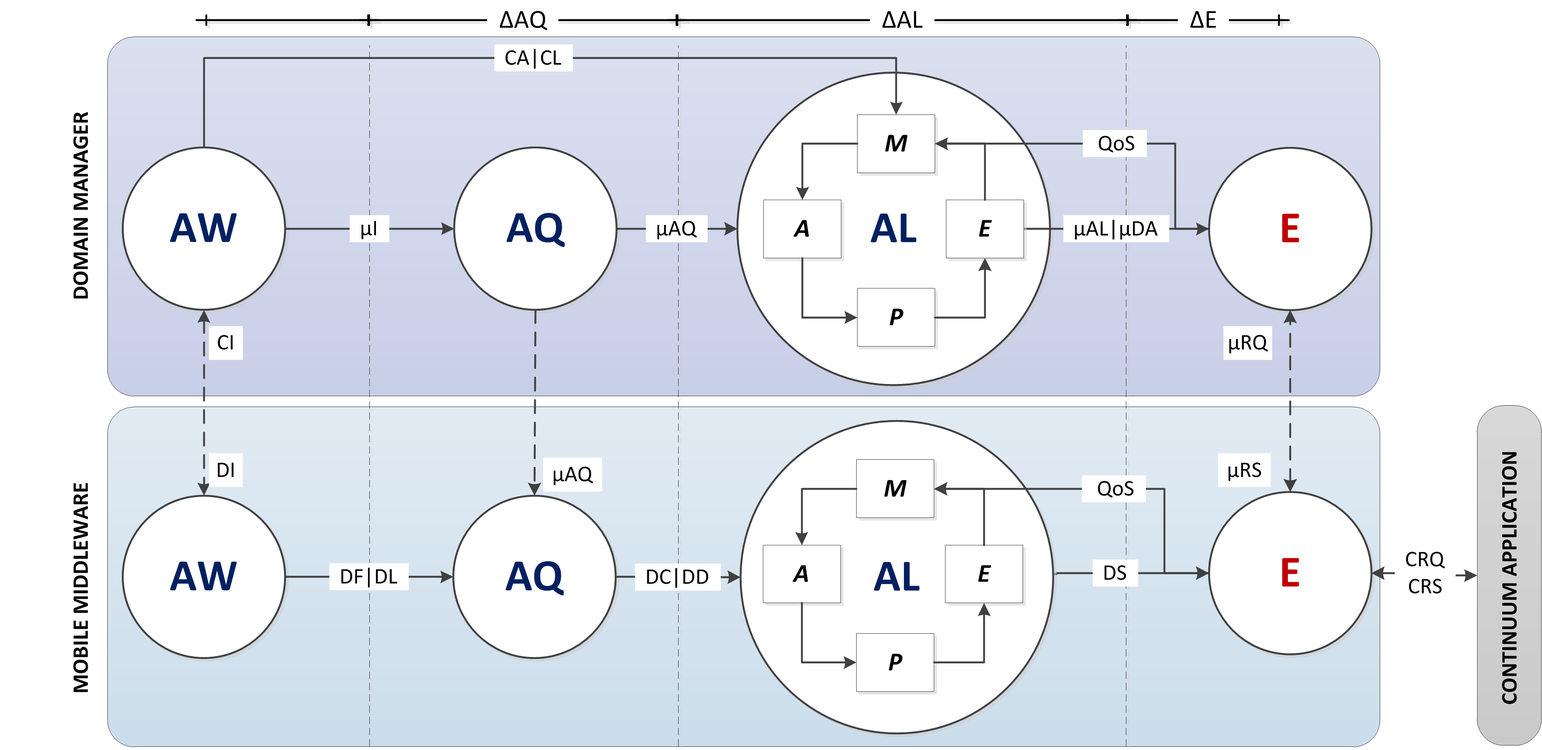
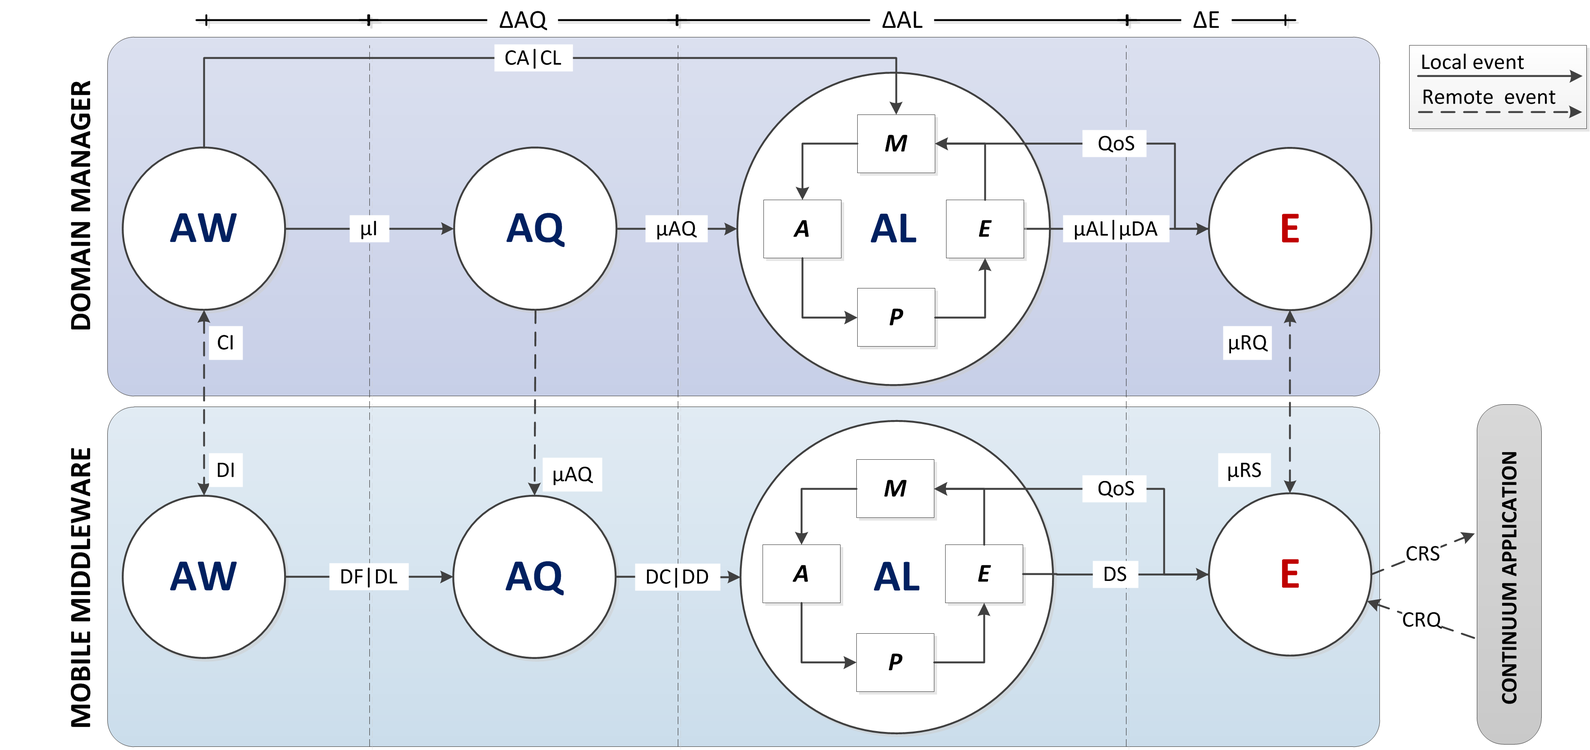
improving evaluation

diff --git a/sections/evaluation.tex b/sections/evaluation.tex
@@ -7,32 +7,30 @@
 
 \section{Experimental Evaluation}\label{sec:evaluation}
 
-We performed different experiments using four domains that materialize the continuum. 
+We performed different experiments involving four distinct domains. 
 %The first experiment evaluates $\mu$-service latency against different workloads. 
-The first experiment studies how latency changes and how the remote domains scale with a varying workload. 
-In this case the mobile domain is obviously omitted. The second one evaluates the domains from a client's perspective, both in terms of latency and battery consumption. The third one evaluates the A3-E with domains that change their availability according to a probability distribution. Finally, the last one evaluates the A3-E's Acquisition and Allocation performance. When possible, we compared A3-E against Enorm, a framework for edge resource management.
+The first experiment studies how latency changes and how the remote domains scale with a varying workload. The second one evaluates all domains from a client's perspective, both in terms of battery consumption and execution time. The third one evaluates A3-E's dynamic selection of domains and targets availability. Finally, the last one evaluates A3-E's Acquisition and Allocation performance. When possible, we compared A3-E against Enorm, a framework for edge resource management.
 %Our goal was to demonstrate that the A3-E model is successful in selecting domains at run time and in improving the overall application availability. 
 
 \subsection{Experiments Setup}
 
 %\subsubsection{Domains}
 
-As shown in Table~\ref{tab:domain-exp-config}, our model was evaluated with four types of domains: mobile, local-edge, and cloud. The client application emulates an Augment Reality one by invoking
+Table~\ref{tab:domain-exp-config} summarizes the four domains used in the evaluation. The Mobile domain was deployed to an Android smartphone hosting the A3-E middleware and a continuum application. The latter emulates an Augment Reality one by invoking
 %is an Image Recognition one, in which users can capture an image and invoke 
-$\mu$-services~\footnote{Implementation available in \url{https://github.com/deib-polimi/A3-E-image-recognition}} responsible for \textit{feature extraction} and \textit{object detection}, which are placed along the continuum. AR is a typical use case for the continuum due to the low latency and high computational power requirements~\cite{beck2014mobile}.
-
-The mobile domain was deployed to an Android smartphone hosting the A3-E middleware. 
+$\mu$-services~\footnote{Implementation available in \url{https://github.com/deib-polimi/A3-E-image-recognition}} responsible for \textit{feature extraction} and \textit{object detection}, which are placed along the continuum. AR is a typical use case for the continuum due to the low latency and high computational power requirements~\cite{beck2014mobile,GarrigaMendonca2017}. 
 %~\footnote{Implementation available in \url{https://github.com/deib-polimi/A3-E-DSM-mobile}}
-A domain manager prototype
+
+
+The domain manager prototype (see Sec.~\ref{sec:local-edge-domain-DSM})
 %~\footnote{Implementation available in \url{https://github.com/deib-polimi/A3-E-DSM-Local-edge}} 
-was deployed on two Local-edge domains. For handling Allocation and Execution, we adopted Apache OpenWhisk, a state-of-the-art open-source FaaS platform. Throughout experiments, edge domains shared a LAN with the origin of requests (i.e., the client applications/devices).
-%TODO [Danilo] this is by definition and couldn't be otherwise
+was deployed on two Local-edge domains. 
+%For handling A3-E's Allocation and Execution, the prototype relies on Apache OpenWhisk, a state-of-the-art open-source FaaS platform. Throughout experiments, edge domains shared a LAN with the origin of requests (i.e., the client applications/devices).
+%TODO [Danilo] this is by definition (see Sec. 2.1)
 %This was done to emulate a few-hops scenario in which devices are directly connected to their nearest edge domains. 
-\texttt{Local-edge-1} represented a situation in which latency is close to zero, but the computational resources are more constrained and scaling-up is not possible due to the inherent physical restrictions of the underlying infrastructure (e.g., a lightweight server covering an office); in turn, \texttt{Local-edge-2} has more computational resources and yet low latency can be achieved due to physical proximity (e.g., a robust edge server covering a building floor).
+\texttt{Local-edge-1} represented a situation in which latency is ultra low, but the computational resources are more constrained and scaling-up is not possible due to the inherent physical restrictions of the underlying infrastructure (e.g., a lightweight server covering an office); in turn, \texttt{Local-edge-2} has more computational resources and yet low latency can be achieved due to physical proximity (e.g., a robust edge server covering a building floor).
 
-Representing cloud domains, we used AWS Lambda~\cite{AWSLambda}, the most mature FaaS solution on the market. To be consistent with our formulation of the computing continuum, functions and associated dependencies (storage, feature extraction and matching) were hosted within the same AWS region. 
-
-Finally, we also deployed the functionality onto a traditional setup using cloud's IaaS. The main goal of this setup was not to compare traditional cloud services against a FaaS solution, but to demonstrate that the proposed continuum could outperform the cloud under the tested circumstances and requirements.
+Representing cloud domains, we used AWS Lambda~\cite{AWSLambda}, the most mature FaaS solution on the market. To be consistent with our formulation of the computing continuum, functions and associated dependencies were deployed to the AWS Lambda datacenter in Europe. Additionally, we also deployed the functionality onto a traditional setup using cloud's IaaS. The main goal of this setup was not to compare traditional cloud services against a FaaS solution, but to demonstrate that the proposed continuum could outperform the cloud under the tested circumstances and requirements.
 
 \begin{table}[htb]
 	\caption{Domains Setup in the Continuum for the Experimental Evaluation}
@@ -60,7 +58,7 @@ Finally, we also deployed the functionality onto a traditional setup using cloud
 
 
 
-\subsection{Latency and Scalability} 
+\subsection{Service Latency and Scalability} 
 
 
 %\begin{figure}[htb]
@@ -70,12 +68,17 @@ Finally, we also deployed the functionality onto a traditional setup using cloud
 %	\label{fig:exp-setup1}
 %\end{figure}
 
-The first experiment assessed how the latency changes and the domains scale with a varying workload, providing a baseline to compare different domains. We simulated an increasing number of clients, each one making $100$ requests for the AR $\mu$-service at a rate of two per second. This setup was achieved taking into account the default maximum for concurrent executions in AWS Lambda~\cite{AWSLambda}
+The first experiment assessed different domains in term of service latency and scalability
+when subjected to a varying workload.
+%, providing a baseline to compare different domains. 
+We simulated an increasing number of clients, each one making $100$ requests for the AR $\mu$-service at a rate of two per second. This setup was achieved taking into account the default limit for concurrent executions in AWS Lambda~\cite{AWSLambda}
 %~\footnote{\url{http://docs.aws.amazon.com/lambda/latest/dg/concurrent-executions.html}} 
 and Openwhisk~\cite{OpenWhisk}.
 %~\footnote{\url{https://github.com/apache/incubator-openwhisk/blob/master/docs/reference.md}}, as well as the limited resources of edge domains. 
 
-This experiment excluded the mobile domain and focused on the remote ones, i.e., edge and cloud. Capturing and uploading an image was emulated using Postman\footnote{\url{https://www.getpostman.com/}}, an open source application designed to perform load testing over the functional behavior of Web APIs. The payload for this experiment was a sample image of approximately 65 KB, which is a reasonable size for this use case considering the requirements regarding low-latency and computation time~\cite{rodriguez16mobile}. The actual execution time was profiled for each domain and then kept constant for the experiment, while latency results are averaged through $5$ executions.
+This experiment excluded the mobile domain and focused on the remote ones, i.e., edge and cloud. In this experiment, requests were emulated using Postman\footnote{\url{https://www.getpostman.com/}}, an open source application designed to perform load testing. 
+%over the functional behavior of Web APIs. 
+The payload for this experiment was a sample image of approximately $65 KB$, which is a reasonable size for this use case considering the requirements regarding low-latency and computation time~\cite{rodriguez16mobile}. To mitigate cost from cloud-based provider, the execution time was first profiled for each domain, while network latency results were averaged through $5$ executions.
 
 %Once the image was sent through HTTP/POST, the actual execution depended on the domain being used. triggering Openwhisk actions for both edge domains, AWS Lambda functions for Cloud-FaaS domain, and a Nodejs server that calls a Python function for Cloud-IaaS domain.
 
@@ -88,7 +91,7 @@ This experiment excluded the mobile domain and focused on the remote ones, i.e.,
 
 %\subsubsection{Baseline Latency}
 
-Fig.~\ref{fig:latency-domains} shows the average latency for each scale-up step. Note that the computation time (light gray) is different from the overhead (dark gray). The latter includes network communication (routing and forwarding) and queuing time (when no resources are available to process the request immediately). 
+Fig.~\ref{fig:latency-domains} shows the average latency for each scale-up step. Note that the computation time (light gray) is different from the overhead (dark gray). The latter includes network communication (routing and forwarding) and queuing time (when no resources are available to process the request). 
 
 \begin{figure}
 	
@@ -100,19 +103,19 @@ Fig.~\ref{fig:latency-domains} shows the average latency for each scale-up step.
 	\label{fig:latency-domains}
 \end{figure}
 
-Regarding the \textit{Cloud-FaaS} domain, the latency reduction is up to $90$\% for \texttt{Local-edge-1} and up to $82$\% for \texttt{Local-edge-2}. Interestingly, for Cloud-FaaS, latency decreases when the number of simultaneous clients increases.
-This is due to the fact that extra infrastructure is provisioned under-the-hood by AWS Lambda to compensate for initialization overhead of cold requests. Even though future service requests against warm infrastructure do not always reuse extraneous infrastructure created in response to cold initialization stress, higher reuse rates correspond with higher stress levels of requests~\cite{Lloyd18serverless}. For few service invocations, load distribution by AWS is uneven across hosts. This uneven use of infrastructure may lead to early deprecation (incurring in cold starts) if client workloads do not utilize all nodes. 
+In comparison with the \textit{Cloud-FaaS}, latency reduction was up to $90$\% for \texttt{Local-edge-1} and up to $82$\% for \texttt{Local-edge-2}. Interestingly, for Cloud-FaaS, latency decreases when the number of simultaneous clients increases.
+This is due to the extra infrastructure which is provided under-the-hood by AWS Lambda to compensate for initialization overhead of cold requests. Even though future service requests against warm containers do not always reuse extraneous containers created in response to cold initialization stress, higher reuse rates correspond with higher stress levels of requests~\cite{Lloyd18serverless}. For few service invocations, load distribution by AWS is uneven across hosts. This uneven use of infrastructure may lead to early deprecation (incurring in cold starts) if client workloads do not utilize all nodes. 
 Despite its virtually unlimited resources, Cloud-FaaS has tunable limits for maximum concurrent executions (default is 1000), e.g., due to budget constraints~\cite{Villamizar2017lambda}. This is reflected in the substantial increase in latency noticed in the Cloud-FaaS experiment (Fig.~\ref{fig:latency-domains}, Cloud-FaaS, 64 Clients bar), performed with 64 clients and similar concurrent execution limit.
 %We run an additional scenario for Cloud-FaaS to reflect the situation in which such a limit is reached, with 64 clients and 64 maximum concurrent executions. 
 %, perceived latency increases substantially as the requests are throttled by the infrastructure.
 
-Regarding the \textit{Cloud-IaaS} domain, reductions when using \textit{Cloud-FaaS} are up to $77$\% and $58$\%, respectively. Interestingly, \textit{Cloud-IaaS} outperformed  \textit{Cloud-FaaS} ($46$\% less overhead) for light workloads (up to $16$ simultaneous clients). This can be due to the additional steps performed by the API Gateway in order to forward RESTful calls to AWS lambda functions in \textit{Cloud-FaaS}\footnote{http://docs.aws.amazon.com/lambda/latest/dg/with-on-demand-https.html}. Nevertheless, this advantage is mitigated by the fact that \textit{Cloud-FaaS} can better react to workload bursts, thanks to its faster horizontal scaling~\cite{Villamizar2017lambda,Hendrickson:2016}. 
+In comparison with the \textit{Cloud-IaaS} domain, reductions when using \textit{Cloud-FaaS} are up to $77$\% and $58$\%, respectively. Interestingly, \textit{Cloud-IaaS} outperformed  \textit{Cloud-FaaS} ($46$\% less overhead) for light workloads (up to $16$ simultaneous clients). This can be due to the additional steps performed by the API Gateway in order to forward RESTful calls to AWS lambda functions in \textit{Cloud-FaaS}\footnote{http://docs.aws.amazon.com/lambda/latest/dg/with-on-demand-https.html}. Nevertheless, this advantage is mitigated by the fact that \textit{Cloud-FaaS} can better react to workload bursts, thanks to its faster horizontal scaling~\cite{Villamizar2017lambda,Hendrickson:2016}. 
 %[Danilo] the cited works should be enougth for explaining why
 %Since in \textit{Cloud-IaaS} a scaling-up action (that can demand several seconds~\cite{Quatrocchi2016discrete}) triggers when more than one VM instance is needed to handle the workload, requests timeout in the meantime. 
  
-For light to medium workloads (up to $16$ simultaneous clients), the overhead added by the \textit{Local-edge} domains is less than both cloud alternatives. Under heavier workloads (from $32$ simultaneous clients onwards) these domains present restricted availability and degraded performance -- as can be seen for \texttt{Local-edge-1} (the most resource-constrained). One may argue that a \texttt{Local-edge} domain is intended to cope with light workloads -- e.g., a single office or floor in a building. For edge domains that may cope with hundreds of simultaneous clients, e.g., a mobile-edge domain, the compute, storage and memory capabilities are expected to be orders of magnitude higher.
+For light to medium workloads (up to $16$ simultaneous clients), the overhead added by the local-edge domains is less than both cloud alternatives. Under heavier workloads (from $32$ simultaneous clients onwards) these domains present restricted availability and degraded performance -- as can be seen for \texttt{Local-edge-1} (the most resource-constrained). One may argue that a \texttt{Local-edge} domain is intended to cope with light workloads -- e.g., a single office or floor in a building. For edge domains that may cope with hundreds of simultaneous clients, e.g., a mobile-edge domain, the compute, storage and memory capabilities are expected to be orders of magnitude higher.
  
-Finally, we compared our \texttt{Local-edge-2} deployment against Enorm~\cite{wang2017enorm}, a framework for edge resource management that assumes a similar, resource constrained configuration for the edge nodes. %(details are discussed in Section~\ref{sec:related}). 
+Finally, we compared our \texttt{Local-edge-2} deployment against Enorm~\cite{wang2017enorm}, a framework for edge resource management that assumes a similar, resource constrained configuration for the edge nodes. %(details are discussed in Sec.~\ref{sec:related}). 
 Fig.~\ref{fig:a3e-enorm-latency} shows the latency reduction when using an edge alternative instead of a cloud one. A3-E performs better for up to 32 simultaneous requests (from 35\% to 55\% latency reduction w.r.t. the cloud), whilst both approaches tend to perform worst than the cloud solution with heavier workloads (from 64 simultaneous requests on).  
 
 
@@ -123,11 +126,11 @@ Fig.~\ref{fig:a3e-enorm-latency} shows the latency reduction when using an edge 
 \label{sub:exp-a3e-continuum}
 
 The main goal of this experiment was to evaluate the compute continuum 
-from the client's viewpoint in terms of battery consumption and execution time. A mobile device was set up with our implementation of the A3-E middleware, which was in charge of selecting the best domain from Table~\ref{tab:domain-exp-config} for serving the sample application $\mu$-service based on the perceived QoS.
+from the client's viewpoint in terms of battery consumption and execution time. Contrasting with the previous experiment, a mobile device was set up with the mobile middleware implementing A3-E's activities (see Sec.~\ref{sec:mobile_middleware}).%, which was in charge of selecting the best domain from Table~\ref{tab:domain-exp-config} for serving the sample application $\mu$-service based on the perceived QoS.
 %[Danilo] The experiment set-up already defined the application (saving space here)
 %Once again our sample application was the image recognition one with feature extraction and matching provided along three domains in the continuum: \textit{mobile}, \textit{Local-edge} and \textit{Cloud-FaaS} (see Table~\ref{tab:domain-exp-config}). 
 
-This experiment featured four different scenarios: the first three consider one domain each, and the last one (\textit{all-domains}) combines the previous ones to form the continuum\footnote{Details on the availability of each domain in the \textit{all-domains} scenario are discussed in Section~\ref{sub:domain-selection}.}. The experiment consisted in cascading $2000$ sequential requests for \textit{feature extraction} and \textit{matching} of a sample image (with a size of 65 KB). We measured the total execution time, battery consumption in the mobile device, and average time per call. Fig.~\ref{fig:exp-a3e} shows the experimental results, averaged among $5$ executions for each scenario.
+This experiment featured four different scenarios: the first three consider one domain each, and the last one (\textit{all-domains}) combines the previous ones to form the continuum\footnote{Details on the availability of each domain in the \textit{all-domains} scenario are discussed in Sec.~\ref{sub:domain-selection}.}. The experiment consisted in cascading $2000$ sequential requests for \textit{feature extraction} and \textit{matching} of a sample image (with a size of 65 KB). We measured the execution time and battery consumption, and average time per call. Fig.~\ref{fig:exp-a3e} shows the experimental results, averaged among $5$ executions for each scenario.
 
 \begin{comment}
 internetOnToOffProbability = 0.22%
@@ -226,7 +229,7 @@ Conclusively, the experiment shown that A3-E is capable of performing domain sel
 The \texttt{all-domains} scenario reflects the underlying rationale of the computation continuum: exploit the edge domains as much as possible (by giving them high scores in Formula~\ref{eq:smart}), leading to better balance among computation time, latency and resource consumption. 
 %[Danilo] is the sentence below meanigful?
 %Switch to the cloud, or to the local device, only when necessary. 
-Note that computation in the mobile device was configured with the lowest possible score, thus the cloud was selected as the first alternative to edge domains. This behavior can be tuned by adjusting application requirements and domain parameters as discussed in Section~\ref{sec:implementation}.
+Note that computation in the mobile device was configured with the lowest possible score, thus the cloud was selected as the first alternative to edge domains. This behavior can be tuned by adjusting application requirements and domain parameters as discussed in Sec.~\ref{sec:implementation}.
 
 %that allows to cope with unavailability and fluctuations in QoS 
 
@@ -238,7 +241,7 @@ Note that computation in the mobile device was configured with the lowest possib
 
 Finally, the last experiment evaluates the performance of A3's Acquisition and Allocation based on Awareness. Given the resource limitations of edge domains and the potential benefits of exploiting contextual awareness related to edge's locality, we target the evaluation of \textit{Local-edge-2} as a domain. 
 
-The experiment focused on the scenario in which no edge resources are pre-allocated beforehand, i.e., a worse case cold-start scenario (see Section~\ref{sec:A3-E-awareness}). In this context, the experiment was carried out with a prototype implementation of a domain manager responsible for the advertisement, identification, acquisition and allocation of a new $\mu$-service by that domain.
+The experiment focused on the scenario in which no edge resources are pre-allocated beforehand, i.e., a worse case cold-start scenario (see Sec.~\ref{sec:A3-E-awareness}). In this context, the experiment was carried out with a prototype implementation of a domain manager responsible for the advertisement, identification, acquisition and allocation of a new $\mu$-service by that domain.
 
 % [Danilo] The steps are described in Sec. 3, we can just emphatise the activities (paragraph above)
 %the following steps: (1) Receive a client's request targeting a new $\mu$-service, (2) fetch and download the software assets from a repository, (3) build the $\mu$-service against the specific architecture of the edge node (if needed), (4) install the corresponding functions in the FaaS platform and provide an endpoint for them, and finally (5) execute the requested function and return the result to the client.
@@ -285,7 +288,7 @@ Fig.~\ref{fig:exp-a3e-enorm-deployment} shows the experiment results. The averag
 %built it in the edge server, and installation of a functionwe used the Image Recognition function from the Augmented Reality application 
 
 
-Finally, in terms of threats to validity is it worth mentioning that the experiments only targeted one sample application and, in the case of experiments in Section~\ref{sub:exp-a3e-continuum} and~\ref{sub:domain-selection}, only one client device. Further tests are needed, considering multiple clients using several applications composed of $\mu$-services with conflicting requirements, and their corresponding functions deployed along the continuum. Additionally, it is currently not possible to test with real mobile-edge domains, i.e., to provide computational capabilities on base stations. This could be approximated either by simulation or by deploying edge domains following current specifications of \textit{mobile edge computing} in terms of computational power and latency, to better capture the heterogeneity of the continuum. Nonetheless, the fact that specifications and technologies are still under development limits the accuracy in which mobile-edge domains can be evaluated.  %Finally, even though the all-domains scenario provided insights regarding availability and consistency, experiments focusing particularly on consistency, correctness and reliability of the model are outside the scope of the paper and thus left as future work.
+Finally, in terms of threats to validity is it worth mentioning that the experiments only targeted one sample application and, in the case of experiments in Sections~\ref{sub:exp-a3e-continuum} and~\ref{sub:domain-selection}, only one client device. Further tests are needed, considering multiple clients using several applications composed of $\mu$-services with conflicting requirements, and their corresponding functions deployed along the continuum. Additionally, it is currently not possible to test with real mobile-edge domains, i.e., to provide computational capabilities on base stations. This could be approximated either by simulation or by deploying edge domains following current specifications of \textit{mobile edge computing} in terms of computational power and latency, to better capture the heterogeneity of the continuum. Nonetheless, the fact that specifications and technologies are still under development limits the accuracy in which mobile-edge domains can be evaluated.  %Finally, even though the all-domains scenario provided insights regarding availability and consistency, experiments focusing particularly on consistency, correctness and reliability of the model are outside the scope of the paper and thus left as future work.
 
 
 

diff --git a/sections/implementation.tex b/sections/implementation.tex
@@ -53,7 +53,7 @@ For each required $\mu$-service, a correspond loop instance: (i) \textit{monitor
 
 %Computational requirements defined as a fixed score ranging from 
 
-To compute the execution time of each capable domain, the middleware relies on scores ranging from $1$ to $5$ defining the computational power of distinct domains~\footnote{Labeling computational power is also common in the cloud where different tiers of virtual machines are available -- \url{https://aws.amazon.com/ec2/instance-types/}}. By default, the mobile domain has a score of $1$; edge domain's score is informed by the static performance indicator within the \textit{domain identification} (see Sec.~\ref{sec:A3-E-awareness}); finally, cloud domains have a fixed score of $5$, which reflects their abundance of computational resources. Battery consumption follows a similar approach: the mobile domain has a score of $5$, whilst edge and cloud domain scores are default-initialized with $1$ and $3$ and adjusted at run time based on the execution time.
+To compute the execution time of each capable domain, the middleware relies on scores ranging from $1$ to $5$ defining the computational power of distinct domains~\footnote{Labeling computational power is also common in the cloud where different tiers of virtual machines are available -- \url{https://aws.amazon.com/ec2/instance-types/}}. By default, the mobile domain has a score of $1$; edge domain's score is informed by the static performance indicator within the \textit{domain identification} (see Sec.~\ref{sec:A3-E-awareness}); finally, cloud domains have a fixed score of $5$, which reflects their abundance of computational resources. Battery consumption follows a similar approach: the mobile domain has a score of $5$, whilst edge and cloud domain scores are default-initialized with $1$ and $3$ respectively and updated at run time based on the monitored \textit{execution time} of the selected domain, as the longer the connection stays open, the more battery is consumed.
 
 %%Note that, at the time of writing, it is not possible to monitor the battery consumption of a single $\mu$-service invocation on a mobile device (i.e., Android and iOS do not allow it), but it can be estimated to be proportional to the execution time and to the local CPU power used (i.e., local invocations drain more battery than remote ones).  
 
@@ -95,9 +95,9 @@ To compute the execution time of each capable domain, the middleware relies on s
 }%
 
 %TODO [Danilo] improve this paragraph
-Algorithm~\ref{alg:selection} describes the procedure employed by the self-management loop \textit{planner}. The algorithm computes a score ranging from $0$ to $5$ (line $2$). First, it retrieves the maximum network latency and computational power from available domains (line $3$ and $4$). Then, it retrieves the weights assigned to each QoS metric (lines $5$ and $6$), which correspond to  the values specified by \textit{LatencyRequirement} and \textit{BatteryRequirement} of the $\mu$-service: the \textit{ANY} value corresponds to a weight of $0$; a latency requirement of \textit{LOW} and a computational power requirement of \textit{FAST} correspond to a weight equal to $1$; while a latency requirement of \textit{VERY\_LOW} and a computational power requirement of \textit{VERY\_FAST} correspond to a weight equal to $2$. 
+Algorithm~\ref{alg:selection} describes the procedure employed by the self-management loop \textit{planner}. The algorithm computes a score ranging from $0$ to $5$ (line $2$). First, it retrieves the maximum network latency and computational power from available domains (line $3$ and $4$). Then, it retrieves the weights assigned to each QoS metric (lines $5$ and $6$) and corresponding to  the values specified by \textit{LatencyRequirement} and \textit{BatteryRequirement} of the $\mu$-service: the \textit{ANY} value corresponds to a weight of $0$; a latency requirement of \textit{LOW} and a computational power requirement of \textit{FAST} correspond to a weight equal to $1$; while a latency requirement of \textit{VERY\_LOW} and a computational power requirement of \textit{VERY\_FAST} correspond to a weight equal to $2$. 
 
-For each domain, the algorithm computes the overall score (line $9$ to $14$). For each QoS, it normalizes the actual value with the previously computed maximum.
+For each domain, the algorithm computes the overall score (line $9$ to $14$). For each QoS attribute, it normalizes the actual value with the previously computed maximum.
 %: the latency score is computed by normalizing the value retrieved at line $10$ with the maximum latency previously computed. 
 %The normalized value ranges from $0$ to $1$, the higher this value is, the higher the latency. 
 Since a higher score should mean lower service latency/battery consumption, the algorithm computes each score with the complement of the normalized value and adds $1$ to avoid $0$ scores. 
@@ -118,6 +118,6 @@ The overall score is then calculated as the weighted average between the scores 
 
 %Accordingly, each $\mu$-service is mapped to the domain that best satisfies its requirements.
 
-Implementing \textit{Engagement}, the middleware handles C-requests triggered by the client application 
+Implementing \textit{Engagement}, the middleware handles \textit{C-request}s triggered by the client application 
 %for a specific $\mu$-service in the continuum 
-with the invocation of the domain previously selected. Domains are bound to an invocation resolver: edge and cloud domains resolvers fire an HTTP request, while the mobile domain's resolver will broadcast an Android event containing the request. Analogously, each resolver handles invocation responses by triggering a corresponding C-response events handled by the client application.
+with the invocation of the domain previously selected. Domains are bound to an invocation resolver: edge and cloud domains resolvers fire an HTTP request, while the mobile domain's resolver will broadcast an Android event containing the request. Analogously, each resolver handles invocation responses by triggering corresponding \textit{C-response}s events handled by the client application.

diff --git a/sections/proposal.tex b/sections/proposal.tex
@@ -10,7 +10,7 @@
 \begin{figure}[tbp]
 	\includegraphics[width=0.85\textwidth]{figs/A3-E}
 	%	\setlength{\belowcaptionskip}{-10pt}
-	\caption{A3-E overview. A3-E's activities --- (AW), (AQ), (AL), (E) --- are carried out by a \textit{domain manager} and a \textit{mobile middleware}, and coordinate through asynchronous events depicted by and identified as follows: \textit{domain identification}~(DI), \textit{client identification}~(CI), \textit{client arrived}~(CA),\textit{client left}~(CL), \textit{$\mu$-service identified}~($\mu$I), \textit{$\mu$-service acquired}~($\mu$AQ), \textit{$\mu$-service allocated}~($\mu$AL), \textit{$\mu$-service deallocated}~($\mu$DA), \textit{domain found}~(DF), \textit{domain lost}~(DL), \textit{domain confirmed}~(DC), \textit{domain denied}~(DD), \textit{domain selected}~(DS), \textit{$\mu$-service request}~($\mu$RQ), \textit{$\mu$-service response}~($\mu$RS), \textit{C-Request}~(CRQ), and \textit{C-Response}~(CRS).}
+	\caption{A3-E overview. A3-E's activities --- (AW), (AQ), (AL), (E) --- are carried out by a \textit{domain manager} and a \textit{mobile middleware}, and coordinate through asynchronous events depicted by arrows and labeled as follows: \textit{domain identification}~(DI), \textit{client identification}~(CI), \textit{client arrived}~(CA), \textit{client left}~(CL), \textit{$\mu$-service identified}~($\mu$I), \textit{$\mu$-service acquired}~($\mu$AQ), \textit{$\mu$-service allocated}~($\mu$AL), \textit{$\mu$-service deallocated}~($\mu$DA), \textit{domain found}~(DF), \textit{domain lost}~(DL), \textit{domain confirmed}~(DC), \textit{domain denied}~(DD), \textit{domain selected}~(DS), \textit{$\mu$-service request}~($\mu$RQ), \textit{$\mu$-service response}~($\mu$RS), \textit{C-Request}~(CRQ), and \textit{C-Response}~(CRS).}
 	\label{fig:A3-E-process}
 \end{figure}
 
@@ -64,7 +64,7 @@ and OpenWhisk~\cite{OpenWhisk} adopt a \textit{cold start} policy in which $\mu$
 A3-E's Awareness has two benefits: (i) it alleviates $\Delta AL$ (cold start) by pro-actively allocating $\mu$-services just before they are needed; and (ii) it reduces $\Delta AQ$ and enables $\mu$-service acquisition to be opportunistic (i.e., on demand) by triggering the download and installation of new $\mu$-services as soon as the client becomes active in a specific domain (e.g., by starting the application or by entering an edge domain's area).
 
 
-While cloud domains are not likely to change, and may be set-up statically by clients,% to realize this activity
+While cloud domains are not likely to change, and may be set up statically by clients,% to realize this activity
 edge domains must advertise their existence (\textit{domain identification}) with metadata (network address, static performance indicators) using protocols compatible with its network infrastructure: for example, through IP broadcasting in local-edge, and through Evolved Multimedia Broadcast/Multicast Service (eMBMS) in mobile-edge~\cite{lecompte2012evolved,etsimec16:03}. 
 In particular, edge domains exploit locality by triggering a \textit{client left} event once mobile devices leave its coverage area, whilst cloud domains rely on adjustable \textit{timeout}.% for triggering this event.
 

diff --git a/sections/related-work.tex b/sections/related-work.tex
@@ -19,7 +19,7 @@ More closely related to our service model, Jia et al.~\cite{Jia:2017} tackled th
 
 From a different perspective, several works~\cite{ZhaoZGZN15, Liu:2016, OrsiniBL16, Xu:2018} have focused on the decision of whether to offload computation from/to mobile, edge, and cloud. 
 %Our model relies on a different abstraction --- namely, $\mu$-services. 
-In this category, Orsini et al.~\cite{OrsiniBL16} proposed CloudAware, a comprehensive context-aware mobile middleware that handles offloading to edge and cloud. Similarly to A3-3, clients decide on which alternative best suites its requirements, including performing computation locally. CloudAware deals with stateful components, which renders the offloading decision --- controlled by the client --- more critical. Instead, through A3-E's Awareness the mobile middleware influences --- not dictates --- the opportunistic allocation of stateless and lightweight $\mu$-services by edge and cloud providers. 
+In this category, Orsini et al.~\cite{OrsiniBL16} proposed CloudAware, a comprehensive context-aware mobile middleware that handles offloading to edge and cloud. Similarly to A3-E, clients decide on which alternative best suites its requirements, including performing computation locally. CloudAware deals with stateful components, which renders the offloading decision --- controlled by the client --- more critical. Instead, through A3-E's Awareness the mobile middleware influences --- not dictates --- the opportunistic allocation of stateless and lightweight $\mu$-services by edge and cloud providers. 
 
 %This is similar to the notion of service caching~\cite{Xu18infocom}, as an alternative way to optimize resource-limited edge servers.
 
